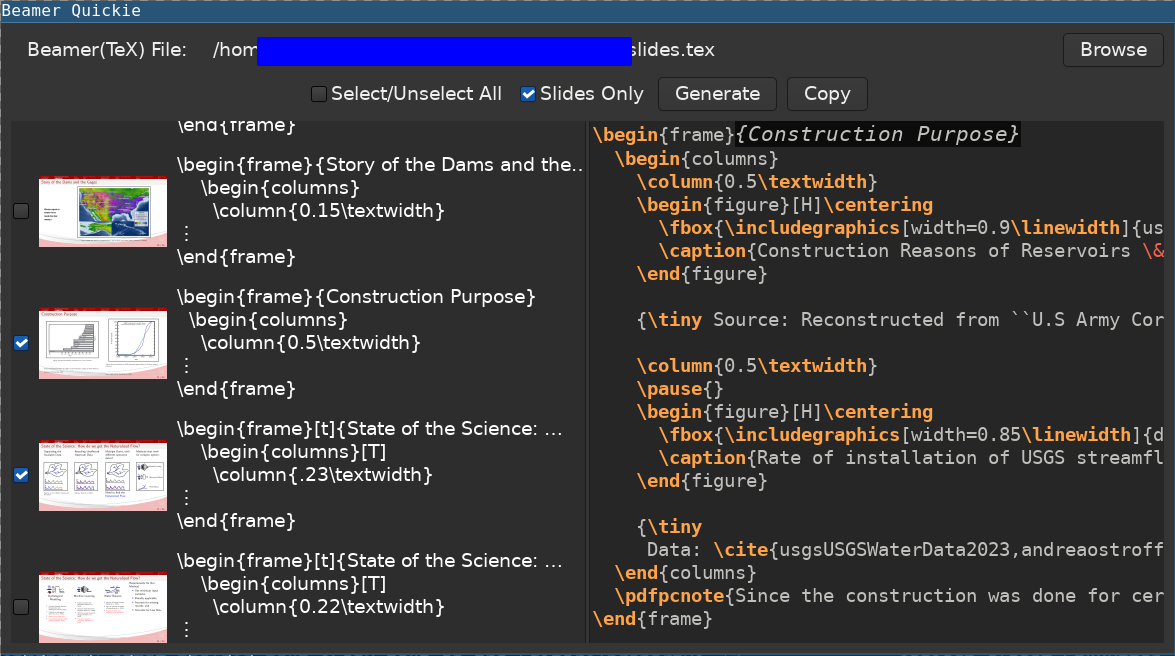
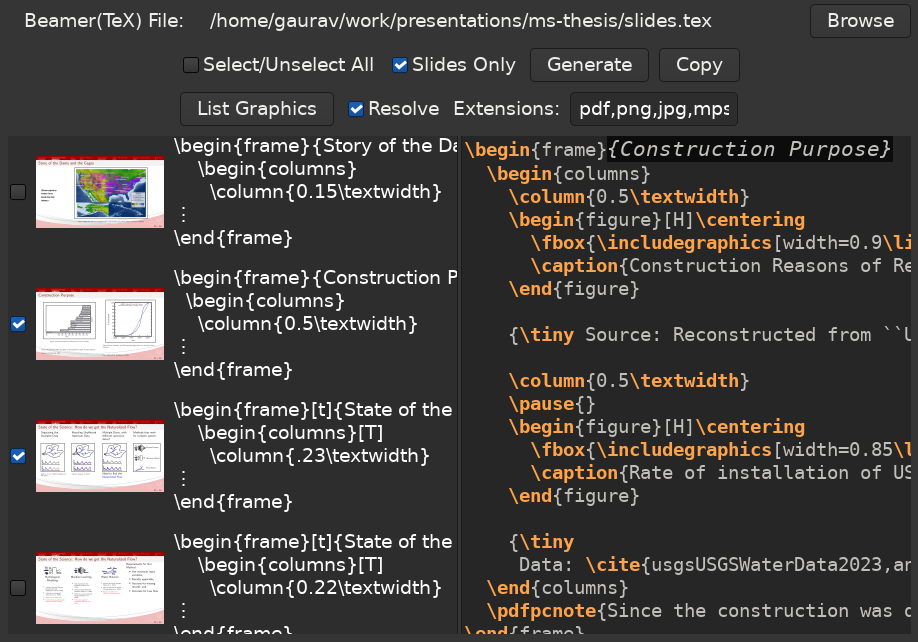
Minor Adjustments; update screenshot

Changed region(s): [[0.0, 0.0, 1.0, 1.0], [0.732, 0.0935, 0.793, 0.1246]]

diff --git a/README.md b/README.md
@@ -2,20 +2,31 @@
 
 Quickly open a beamer presentation file (.tex) and copy some slides.
 
+Provides TeX codes to copy, as well as scans the text for any graphics files you might have to copy to the new location.
+
 # Introduction
 This is a really simple app that I made to learn GTK in rust. 
 
 The concept is to open LaTeX Beamer files, and see the corresponding pages from the compiled PDF along with your code, so that you can copy some slides from there without having to search the text manually.
 
-The frame images are loaded from PDF of the same name as the LaTeX file (if present). if SyncTeX file is present, the pages will be accurate (as long as there is only one source TeX file), if SyncTeX is not present, the app will try to guess the pages for the frames (won't work if you have frames with `allowbreaks`, please don't).
+The frame images are loaded from PDF of the same name as the LaTeX file (if present). if SyncTeX file is present, the pages will be accurate (as long as there is only one source TeX file), if SyncTeX is not present, the app will try to guess the pages for the frames (won't work if you have frames with `allowbreaks`, [please don't](https://mirror.mwt.me/ctan/macros/latex/contrib/beamer/doc/beameruserguide.pdf#subsubsection.5.1.3)).
+
+# Screenshot
 
 ![Screenshot of the GUI](screenshot.png "Screenshot showing an opened tex file with thumbnains of slides and some slides marked for export")
 
-Use Generate to copy the selected slide's texts into the Editor, and then use Copy button to copy it (you can edit there if you want). The syntax highlighting is basic.
+# Usage
+
+Use `Generate` button to generate the selected slides' text into the Editor, and then use `Copy` button to copy it (you can edit there if you want befor copying). The syntax highlighting is very basic.
+
+Now paste that to a new file in your favorite editor. You can use the `List Graphics` button after that to generate the list of graphics files you'll have to copy to the new location as well (if your new file is in a different folder).
+
+`Save As` option to LaTeX and `Copy` options for the graphics is not provided as there might be problems associated with absolute paths and relative paths going outside directory.
+
 
 # Other Features and Non-features
 There are many features that could be possible with this. So far my knowledge of the GTK limits a lot of them. Feel free to make issues and maybe pull requests if that feature seems like a good idea.
 
 One thing I wanted to do was save the file, but currently the TeX file's contents are read only for the `frame` environment, so anything between the frames is lost. Like `\section` and other environment info. Hence I didn't add a save button that might make you lose contents on the file.
 
-The `List Graphics` currently lists the graphics by finding the `\includegraphics` command arguments and then searching for those files in directories in `\graphicspath` command (and the parent dir of TeX file). You can use that to copy graphics for a new project. But since LaTeX allows you to not have to write the extension of the files, there is a field where you can give your lists of extensions to try if the `\includegraphics` command argument has none.
+The `List Graphics` currently lists the graphics by finding the `\includegraphics` command arguments and then searching for those files in directories in `\graphicspath` command (and the parent dir of TeX file). You can use that to copy graphics for a new project. But since LaTeX allows you to not have to write the extension of the files, there is a field where you can give your lists of extensions to try if the `\includegraphics` command argument has none. The extensions here should be the same order of extension as the one in your `\DeclareGraphicsExtensions` command (the default value is provided).
